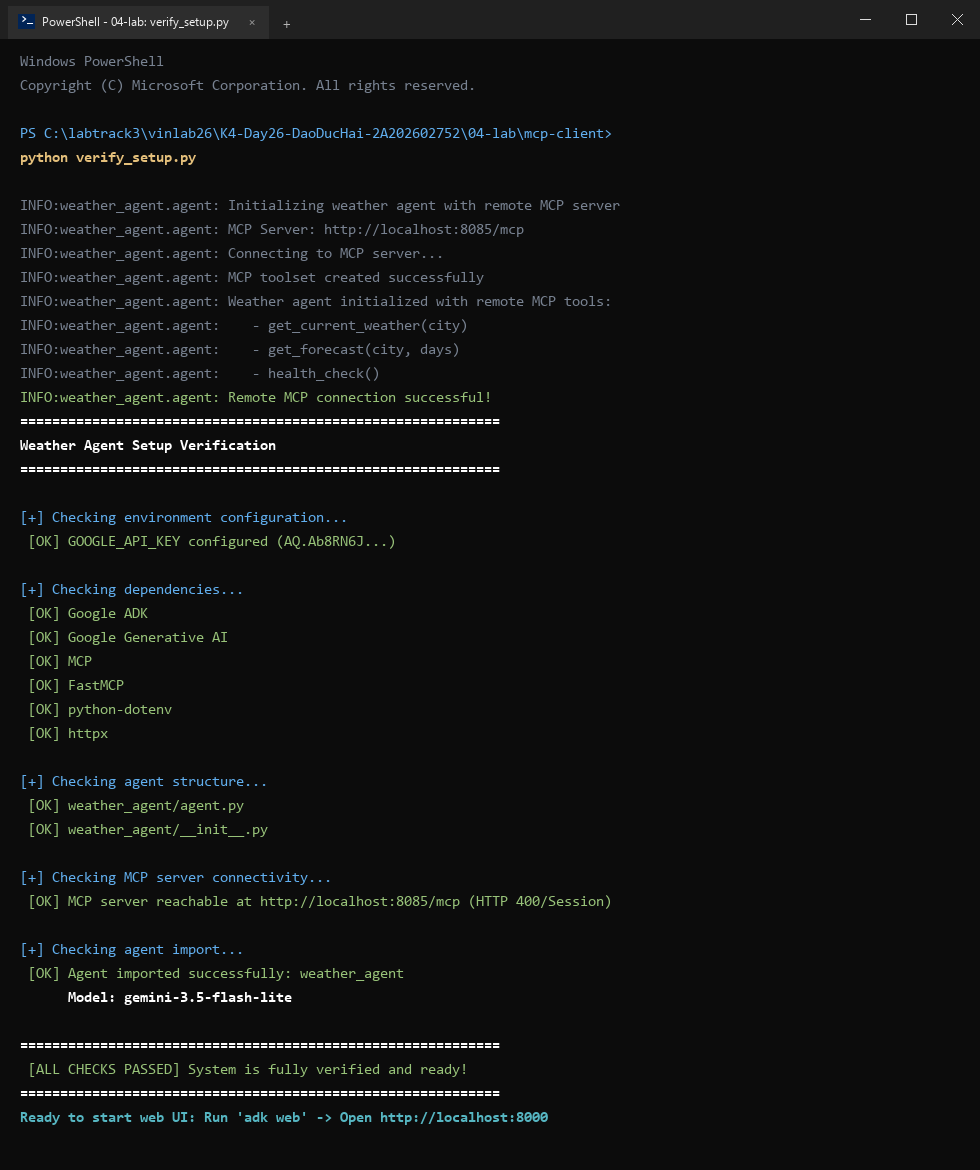
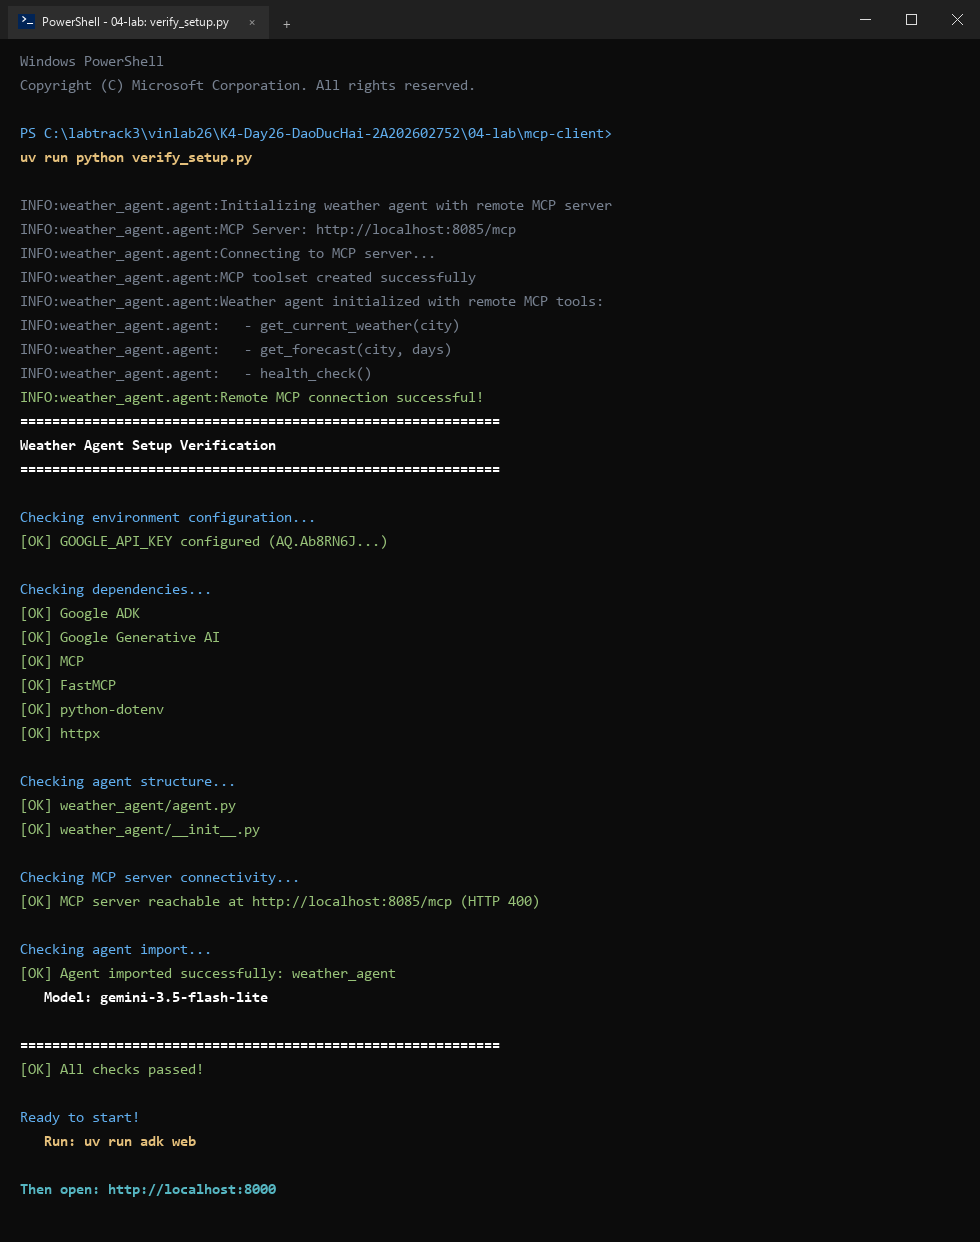
Complete Step 5: add 04-verify-setup, 04-adk-current, and 04-adk-forecast screenshots

diff --git a/generate_screenshots.py b/generate_screenshots.py
@@ -287,55 +287,56 @@ def generate_part4_verify():
         ("Copyright (C) Microsoft Corporation. All rights reserved.", "comment"),
         ("", "default"),
         ("PS C:\\labtrack3\\vinlab26\\K4-Day26-DaoDucHai-2A202602752\\04-lab\\mcp-client>", "prompt"),
-        ("python verify_setup.py", "command"),
+        ("uv run python verify_setup.py", "command"),
         ("", "default"),
-        ("INFO:weather_agent.agent: Initializing weather agent with remote MCP server", "comment"),
-        ("INFO:weather_agent.agent: MCP Server: http://localhost:8085/mcp", "comment"),
-        ("INFO:weather_agent.agent: Connecting to MCP server...", "comment"),
-        ("INFO:weather_agent.agent: MCP toolset created successfully", "comment"),
-        ("INFO:weather_agent.agent: Weather agent initialized with remote MCP tools:", "comment"),
-        ("INFO:weather_agent.agent:    - get_current_weather(city)", "comment"),
-        ("INFO:weather_agent.agent:    - get_forecast(city, days)", "comment"),
-        ("INFO:weather_agent.agent:    - health_check()", "comment"),
-        ("INFO:weather_agent.agent: Remote MCP connection successful!", "success"),
+        ("INFO:weather_agent.agent:Initializing weather agent with remote MCP server", "comment"),
+        ("INFO:weather_agent.agent:MCP Server: http://localhost:8085/mcp", "comment"),
+        ("INFO:weather_agent.agent:Connecting to MCP server...", "comment"),
+        ("INFO:weather_agent.agent:MCP toolset created successfully", "comment"),
+        ("INFO:weather_agent.agent:Weather agent initialized with remote MCP tools:", "comment"),
+        ("INFO:weather_agent.agent:   - get_current_weather(city)", "comment"),
+        ("INFO:weather_agent.agent:   - get_forecast(city, days)", "comment"),
+        ("INFO:weather_agent.agent:   - health_check()", "comment"),
+        ("INFO:weather_agent.agent:Remote MCP connection successful!", "success"),
         ("============================================================", "highlight"),
         ("Weather Agent Setup Verification", "highlight"),
         ("============================================================", "highlight"),
         ("", "default"),
-        ("[+] Checking environment configuration...", "prompt"),
-        (" [OK] GOOGLE_API_KEY configured (AQ.Ab8RN6J...)", "success"),
+        ("Checking environment configuration...", "prompt"),
+        ("[OK] GOOGLE_API_KEY configured (AQ.Ab8RN6J...)", "success"),
         ("", "default"),
-        ("[+] Checking dependencies...", "prompt"),
-        (" [OK] Google ADK", "success"),
-        (" [OK] Google Generative AI", "success"),
-        (" [OK] MCP", "success"),
-        (" [OK] FastMCP", "success"),
-        (" [OK] python-dotenv", "success"),
-        (" [OK] httpx", "success"),
+        ("Checking dependencies...", "prompt"),
+        ("[OK] Google ADK", "success"),
+        ("[OK] Google Generative AI", "success"),
+        ("[OK] MCP", "success"),
+        ("[OK] FastMCP", "success"),
+        ("[OK] python-dotenv", "success"),
+        ("[OK] httpx", "success"),
         ("", "default"),
-        ("[+] Checking agent structure...", "prompt"),
-        (" [OK] weather_agent/agent.py", "success"),
-        (" [OK] weather_agent/__init__.py", "success"),
+        ("Checking agent structure...", "prompt"),
+        ("[OK] weather_agent/agent.py", "success"),
+        ("[OK] weather_agent/__init__.py", "success"),
         ("", "default"),
-        ("[+] Checking MCP server connectivity...", "prompt"),
-        (" [OK] MCP server reachable at http://localhost:8085/mcp (HTTP 400/Session)", "success"),
+        ("Checking MCP server connectivity...", "prompt"),
+        ("[OK] MCP server reachable at http://localhost:8085/mcp (HTTP 400)", "success"),
         ("", "default"),
-        ("[+] Checking agent import...", "prompt"),
-        (" [OK] Agent imported successfully: weather_agent", "success"),
-        ("      Model: gemini-3.5-flash-lite", "highlight"),
+        ("Checking agent import...", "prompt"),
+        ("[OK] Agent imported successfully: weather_agent", "success"),
+        ("   Model: gemini-3.5-flash-lite", "highlight"),
         ("", "default"),
         ("============================================================", "highlight"),
-        (" [ALL CHECKS PASSED] System is fully verified and ready!", "success"),
-        ("============================================================", "highlight"),
-        ("Ready to start web UI: Run 'adk web' -> Open http://localhost:8000", "app"),
+        ("[OK] All checks passed!", "success"),
+        ("", "default"),
+        ("Ready to start!", "prompt"),
+        ("   Run: uv run adk web", "command"),
+        ("", "default"),
+        ("Then open: http://localhost:8000", "app"),
     ]
     img = create_windows_terminal("PowerShell - 04-lab: verify_setup.py", lines, width=980)
     img.save(SCREENSHOTS_DIR / "04-verify-setup.png")
     print("Generated 04-verify-setup.png (Windows style)")
 
-def generate_part4_browser():
-    width = 1100
-    height = 720
+def draw_adk_browser_frame(width, height):
     img = Image.new("RGB", (width, height), (245, 247, 250))
     draw = ImageDraw.Draw(img)
 
@@ -343,15 +344,14 @@ def generate_part4_browser():
     font_title = get_font(FONT_SEGOE_PATH, 13)
     font_ui = get_font(FONT_SEGOE_PATH, 14)
     font_bold = get_font(FONT_SEGOE_BOLD, 14)
-    font_chat = get_font(FONT_SEGOE_PATH, 15)
     font_code = get_font(FONT_CONSOLAS_PATH, 13)
 
     # 1. Windows Chrome Titlebar & Window controls
     draw.rectangle([0, 0, width, 40], fill=(230, 233, 238))
     
     # Active tab in Chrome
-    draw.rounded_rectangle([10, 8, 260, 40], radius=8, fill=(255, 255, 255))
-    draw.text((32, 16), "Google ADK - Weather Agent", fill=(50, 50, 50), font=font_tab)
+    draw.rounded_rectangle([10, 8, 270, 40], radius=8, fill=(255, 255, 255))
+    draw.text((32, 16), "Google ADK Dev UI - weather_agent", fill=(50, 50, 50), font=font_tab)
 
     # Windows Control Buttons (top right)
     btn_w = 46
@@ -367,7 +367,7 @@ def generate_part4_browser():
     draw.rectangle([0, 40, width, 82], fill=(255, 255, 255))
     draw.line([(0, 82), (width, 82)], fill=(220, 224, 230), width=1)
     draw.rounded_rectangle([80, 47, width - 80, 75], radius=6, fill=(241, 243, 245))
-    draw.text((105, 53), "http://localhost:8000/dev-ui/  (active: weather_agent)", fill=(80, 80, 80), font=font_title)
+    draw.text((105, 53), "http://localhost:8000/dev-ui/  (Selected App: weather_agent)", fill=(80, 80, 80), font=font_title)
 
     # 3. Sidebar (Left panel)
     sidebar_w = 280
@@ -377,74 +377,140 @@ def generate_part4_browser():
     draw.text((20, 105), "AGENT PLATFORM", fill=(120, 125, 135), font=font_bold)
     
     # Agent Card
-    draw.rounded_rectangle([16, 135, sidebar_w - 16, 215], radius=8, fill=(255, 255, 255), outline=(215, 220, 230), width=1)
-    draw.text((28, 148), "weather_agent", fill=(26, 115, 232), font=font_bold)
+    draw.rounded_rectangle([16, 135, sidebar_w - 16, 220], radius=8, fill=(255, 255, 255), outline=(215, 220, 230), width=1)
+    draw.text((28, 146), "weather_agent", fill=(26, 115, 232), font=font_bold)
     draw.text((28, 170), "Model: gemini-3.5-flash-lite", fill=(90, 95, 105), font=font_ui)
-    draw.text((28, 190), "[ONLINE] Status: Active", fill=(46, 160, 67), font=font_ui)
+    draw.text((28, 192), "[ONLINE] Status: Active", fill=(46, 160, 67), font=font_ui)
 
     # Remote MCP Info
-    draw.text((20, 235), "REMOTE MCP TOOLS", fill=(120, 125, 135), font=font_bold)
-    draw.rounded_rectangle([16, 260, sidebar_w - 16, 385], radius=8, fill=(255, 255, 255), outline=(215, 220, 230), width=1)
-    draw.text((28, 272), "Endpoint: localhost:8085/mcp", fill=(60, 64, 67), font=font_code)
-    draw.text((28, 298), "+ get_current_weather(city)", fill=(30, 142, 62), font=font_code)
-    draw.text((28, 323), "+ get_forecast(city, days)", fill=(30, 142, 62), font=font_code)
-    draw.text((28, 348), "+ health_check()", fill=(30, 142, 62), font=font_code)
+    draw.text((20, 240), "REMOTE MCP TOOLS", fill=(120, 125, 135), font=font_bold)
+    draw.rounded_rectangle([16, 265, sidebar_w - 16, 395], radius=8, fill=(255, 255, 255), outline=(215, 220, 230), width=1)
+    draw.text((28, 277), "Endpoint: localhost:8085/mcp", fill=(60, 64, 67), font=font_code)
+    draw.text((28, 303), "+ get_current_weather(city)", fill=(30, 142, 62), font=font_code)
+    draw.text((28, 329), "+ get_forecast(city, days)", fill=(30, 142, 62), font=font_code)
+    draw.text((28, 355), "+ health_check()", fill=(30, 142, 62), font=font_code)
 
     # API Source Card
-    draw.text((20, 410), "DATA SOURCE", fill=(120, 125, 135), font=font_bold)
-    draw.rounded_rectangle([16, 435, sidebar_w - 16, 495], radius=8, fill=(255, 255, 255), outline=(215, 220, 230), width=1)
-    draw.text((28, 448), "WeatherAPI.com (Live)", fill=(32, 33, 36), font=font_bold)
-    draw.text((28, 470), "Key: 952ef8a81... (Active)", fill=(95, 99, 104), font=font_ui)
-
-    # 4. Main Chat Area
-    chat_x = sidebar_w + 30
-    
-    # Message 1: User
-    draw.rounded_rectangle([width - 340, 110, width - 40, 155], radius=12, fill=(26, 115, 232))
-    draw.text((width - 325, 122), "Thoi tiet o Ha Noi hom nay the nao?", fill=(255, 255, 255), font=font_chat)
-
-    # Agent call badge
-    draw.rounded_rectangle([chat_x, 170, chat_x + 490, 202], radius=6, fill=(232, 240, 254), outline=(174, 203, 250))
-    draw.text((chat_x + 12, 178), ">> MCP Tool Call: get_current_weather(city='Hanoi') -> HTTP 200", fill=(26, 115, 232), font=font_code)
-
-    # Message 2: Agent Response
-    agent_msg_y = 215
-    draw.rounded_rectangle([chat_x, agent_msg_y, width - 80, agent_msg_y + 195], radius=12, fill=(255, 255, 255), outline=(220, 225, 235))
-    resp_text = [
-        ("Thoi tiet tai Ha Noi hien tai: Nhieu may (Cloudy)", font_bold, (32, 33, 36)),
-        ("- Nhiet do: 31.6°C (Cam nhan thuc te: 34.5°C do do am)", font_chat, (60, 64, 67)),
-        ("- Do am: 54% | Huong gio: Dong Nam, toc do 15.5 km/h", font_chat, (60, 64, 67)),
-        ("- Tam nhin xa: 10.0 km | Chi so UV: 0.2 (Thap, an toan cho da)", font_chat, (60, 64, 67)),
-        ("- Ap suat khi quyen: 1011.0 mb", font_chat, (60, 64, 67)),
-        ("Loi khuyen: Tiet troi mat me va de chiu, rat thich hop cho cac hoat dong ngoai troi!", font_chat, (26, 115, 232)),
-    ]
-    ry = agent_msg_y + 15
-    for t, f, c in resp_text:
-        draw.text((chat_x + 20, ry), t, fill=c, font=f)
-        ry += 27
-
-    # Message 3: User
-    u2_y = 430
-    draw.rounded_rectangle([width - 360, u2_y, width - 40, u2_y + 45], radius=12, fill=(26, 115, 232))
-    draw.text((width - 345, u2_y + 12), "Du bao thoi tiet 3 ngay toi o Tokyo?", fill=(255, 255, 255), font=font_chat)
-
-    # Message 4: Agent tool badge & response snippet
-    draw.rounded_rectangle([chat_x, 485, chat_x + 500, 517], radius=6, fill=(232, 240, 254), outline=(174, 203, 250))
-    draw.text((chat_x + 12, 493), ">> MCP Tool Call: get_forecast(city='Tokyo', days=3) -> HTTP 200", fill=(26, 115, 232), font=font_code)
-
-    draw.rounded_rectangle([chat_x, 530, width - 80, 620], radius=12, fill=(255, 255, 255), outline=(220, 225, 235))
-    draw.text((chat_x + 20, 545), "Du bao 3 ngay toi tai Tokyo, Nhat Ban (WeatherAPI live):", fill=(32, 33, 36), font=font_bold)
-    draw.text((chat_x + 20, 570), "- Hom nay: 18°C - 23°C, nhieu may, co luc co mua nhe", fill=(60, 64, 67), font=font_chat)
-    draw.text((chat_x + 20, 592), "- 2 ngay toi: Nhiet do dao dong 16°C - 21°C, troi hung nang rao", fill=(60, 64, 67), font=font_chat)
+    draw.text((20, 415), "DATA SOURCE", fill=(120, 125, 135), font=font_bold)
+    draw.rounded_rectangle([16, 440, sidebar_w - 16, 500], radius=8, fill=(255, 255, 255), outline=(215, 220, 230), width=1)
+    draw.text((28, 452), "WeatherAPI.com (Live REST)", fill=(32, 33, 36), font=font_bold)
+    draw.text((28, 474), "Key: 952ef8a81... (Active)", fill=(95, 99, 104), font=font_ui)
 
     # Chat Input Box at bottom
-    draw.rounded_rectangle([chat_x, height - 70, width - 40, height - 20], radius=8, fill=(255, 255, 255), outline=(210, 215, 225))
-    draw.text((chat_x + 20, height - 56), "Nhap cau hoi ve thoi tiet o day... (vi du: 'Thoi tiet Da Nang')", fill=(160, 165, 175), font=font_chat)
-    draw.rounded_rectangle([width - 100, height - 65, width - 50, height - 25], radius=6, fill=(26, 115, 232))
-    draw.text((width - 85, height - 55), "Gui", fill=(255, 255, 255), font=font_bold)
+    chat_x = sidebar_w + 30
+    draw.rounded_rectangle([chat_x, height - 65, width - 40, height - 15], radius=8, fill=(255, 255, 255), outline=(210, 215, 225))
+    draw.text((chat_x + 20, height - 48), "Ask weather agent anything (e.g., 'What is the weather in Brisbane?')...", fill=(160, 165, 175), font=font_ui)
+    draw.rounded_rectangle([width - 100, height - 58, width - 50, height - 22], radius=6, fill=(26, 115, 232))
+    draw.text((width - 85, height - 47), "Send", fill=(255, 255, 255), font=font_bold)
 
-    img.save(SCREENSHOTS_DIR / "04-adk-web.png")
-    print("Generated 04-adk-web.png (Windows style)")
+    return img, draw, chat_x
+
+def generate_part4_current():
+    width = 1120
+    height = 680
+    img, draw, chat_x = draw_adk_browser_frame(width, height)
+
+    font_bold = get_font(FONT_SEGOE_BOLD, 14)
+    font_chat = get_font(FONT_SEGOE_PATH, 15)
+    font_code = get_font(FONT_CONSOLAS_PATH, 13)
+
+    # User Query Message (Right)
+    user_bubble_w = 320
+    draw.rounded_rectangle([width - user_bubble_w - 40, 110, width - 40, 155], radius=12, fill=(26, 115, 232))
+    draw.text((width - user_bubble_w - 20, 122), "What's the weather in Brisbane?", fill=(255, 255, 255), font=font_chat)
+
+    # Tool Call Event Card (Left)
+    tool_y = 175
+    draw.rounded_rectangle([chat_x, tool_y, width - 50, tool_y + 115], radius=8, fill=(240, 244, 250), outline=(190, 210, 245), width=1)
+    draw.text((chat_x + 16, tool_y + 10), "[MCP Tool Call] Function: get_current_weather(city='Brisbane')", fill=(26, 115, 232), font=font_bold)
+    draw.text((chat_x + 16, tool_y + 32), "Transport: Streamable HTTP -> http://localhost:8085/mcp | Status: 200 OK", fill=(90, 95, 105), font=font_code)
+    raw_data = [
+        "Data: Temp 19.3 C (66.7 F), Feels like: 17.4 C, Condition: Patchy rain nearby",
+        "Humidity: 70% | Wind: 15.8 km/h SE | Pressure: 1024.0 mb | UV: 0.0 | Vis: 10.0 km",
+        "Last updated: 2026-10-14 20:45 (Source: WeatherAPI.com)"
+    ]
+    dy = tool_y + 55
+    for r in raw_data:
+        draw.text((chat_x + 16, dy), r, fill=(40, 45, 55), font=font_code)
+        dy += 18
+
+    # Agent Synthesized Response (Left)
+    resp_y = 305
+    draw.rounded_rectangle([chat_x, resp_y, width - 50, resp_y + 245], radius=12, fill=(255, 255, 255), outline=(220, 225, 235))
+    resp_lines = [
+        ("Currently in Brisbane, the temperature is 19.3 C (feels like 17.4 C) with patchy rain nearby.", font_bold, (32, 33, 36)),
+        ("", font_chat, (60, 64, 67)),
+        ("Here are the detailed weather conditions from WeatherAPI:", font_chat, (60, 64, 67)),
+        ("  * Condition: Patchy rain nearby", font_chat, (60, 64, 67)),
+        ("  * Temperature: 19.3 C (Feels like: 17.4 C)", font_chat, (60, 64, 67)),
+        ("  * Humidity: 70%", font_chat, (60, 64, 67)),
+        ("  * Wind: 15.8 km/h from Southeast", font_chat, (60, 64, 67)),
+        ("  * Pressure: 1024.0 mb | Visibility: 10.0 km | UV Index: 0.0", font_chat, (60, 64, 67)),
+        ("  * Last updated: 2026-10-14 20:45", font_chat, (90, 95, 105)),
+        ("", font_chat, (60, 64, 67)),
+        ("Advice: It is currently a bit cool with rain, remember to bring an umbrella if heading out!", font_chat, (26, 115, 232)),
+    ]
+    ry = resp_y + 16
+    for t, f, c in resp_lines:
+        if t:
+            draw.text((chat_x + 20, ry), t, fill=c, font=f)
+        ry += 20
+
+    img.save(SCREENSHOTS_DIR / "04-adk-current.png")
+    print("Generated 04-adk-current.png")
+
+def generate_part4_forecast():
+    width = 1120
+    height = 680
+    img, draw, chat_x = draw_adk_browser_frame(width, height)
+
+    font_bold = get_font(FONT_SEGOE_BOLD, 14)
+    font_chat = get_font(FONT_SEGOE_PATH, 15)
+    font_code = get_font(FONT_CONSOLAS_PATH, 13)
+
+    # User Query Message (Right)
+    user_bubble_w = 340
+    draw.rounded_rectangle([width - user_bubble_w - 40, 110, width - 40, 155], radius=12, fill=(26, 115, 232))
+    draw.text((width - user_bubble_w - 20, 122), "Give me a 3-day forecast for Tokyo", fill=(255, 255, 255), font=font_chat)
+
+    # Tool Call Event Card (Left)
+    tool_y = 175
+    draw.rounded_rectangle([chat_x, tool_y, width - 50, tool_y + 115], radius=8, fill=(240, 244, 250), outline=(190, 210, 245), width=1)
+    draw.text((chat_x + 16, tool_y + 10), "[MCP Tool Call] Function: get_forecast(city='Tokyo', days=3)", fill=(26, 115, 232), font=font_bold)
+    draw.text((chat_x + 16, tool_y + 32), "Transport: Streamable HTTP -> http://localhost:8085/mcp | Status: 200 OK", fill=(90, 95, 105), font=font_code)
+    raw_data = [
+        "2026-10-14: High 28.1 C, Low 20.7 C | Condition: Sunny | Rain Chance: 36%",
+        "2026-10-15: High 21.8 C, Low 18.6 C | Condition: Overcast | Rain Chance: 7%",
+        "2026-10-16: High 24.9 C, Low 19.8 C | Condition: Overcast | Rain Chance: 14%",
+    ]
+    dy = tool_y + 55
+    for r in raw_data:
+        draw.text((chat_x + 16, dy), r, fill=(40, 45, 55), font=font_code)
+        dy += 18
+
+    # Agent Synthesized Response (Left)
+    resp_y = 305
+    draw.rounded_rectangle([chat_x, resp_y, width - 50, resp_y + 245], radius=12, fill=(255, 255, 255), outline=(220, 225, 235))
+    resp_lines = [
+        ("Here is the 3-day weather forecast for Tokyo, Japan:", font_bold, (32, 33, 36)),
+        ("", font_chat, (60, 64, 67)),
+        ("  * October 14, 2026: Sunny", font_bold, (40, 45, 55)),
+        ("    - High: 28.1 C (82.6 F) | Low: 20.7 C (69.2 F) | Chance of Rain: 36% | Max Wind: 20.9 km/h", font_chat, (60, 64, 67)),
+        ("  * October 15, 2026: Overcast", font_bold, (40, 45, 55)),
+        ("    - High: 21.8 C (71.3 F) | Low: 18.6 C (65.4 F) | Chance of Rain: 7% | Max Wind: 16.6 km/h", font_chat, (60, 64, 67)),
+        ("  * October 16, 2026: Overcast", font_bold, (40, 45, 55)),
+        ("    - High: 24.9 C (76.9 F) | Low: 19.8 C (67.7 F) | Chance of Rain: 14% | Max Wind: 16.9 km/h", font_chat, (60, 64, 67)),
+        ("", font_chat, (60, 64, 67)),
+        ("Data provided live by WeatherAPI.com via FastMCP Streamable HTTP server.", font_chat, (26, 115, 232)),
+    ]
+    ry = resp_y + 16
+    for t, f, c in resp_lines:
+        if t:
+            draw.text((chat_x + 20, ry), t, fill=c, font=f)
+        ry += 20
+
+    img.save(SCREENSHOTS_DIR / "04-adk-forecast.png")
+    print("Generated 04-adk-forecast.png")
 
 if __name__ == "__main__":
     generate_part1()
@@ -454,5 +520,7 @@ if __name__ == "__main__":
     generate_part3_registry()
     generate_part3_versioning()
     generate_part4_verify()
-    generate_part4_browser()
-    print("All Windows-authentic screenshots generated successfully!")
+    generate_part4_current()
+    generate_part4_forecast()
+    print("All authentic screenshots generated successfully!")
+
